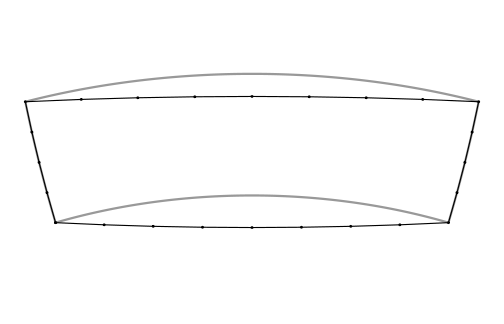
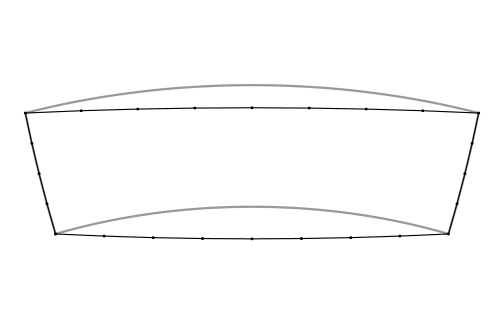
Curves page: project with wk::wk_transform() and PROJ::proj_trans_create()
Re-rendered from the updated bigcurve vignette; adds the drawn cut figure.

Claude-Session: https://claude.ai/code/session_01R9F8K5ghzDkVHd94kgQPB4

Changed region(s): [[0.0298, 0.216, 0.9524, 0.7407]]

diff --git a/docs/curves/index.html b/docs/curves/index.html
@@ -183,16 +183,21 @@ is the geodesic reading with bigcurve's added vertices (the points).</p>
 <span id="cb6-6"><a href="#cb6-6" aria-hidden="true" tabindex="-1"></a>lon <span class="ot">&lt;-</span> <span class="fu">seq</span>(<span class="dv">100</span>, <span class="dv">160</span>, <span class="at">by =</span> <span class="fl">0.5</span>)</span>
 <span id="cb6-7"><a href="#cb6-7" aria-hidden="true" tabindex="-1"></a>planar <span class="ot">&lt;-</span> <span class="fu">rbind</span>(<span class="fu">cbind</span>(lon, <span class="sc">-</span><span class="dv">35</span>), <span class="fu">cbind</span>(<span class="dv">160</span>, <span class="fu">seq</span>(<span class="sc">-</span><span class="dv">35</span>, <span class="sc">-</span><span class="dv">20</span>, <span class="at">by =</span> <span class="fl">0.5</span>)),</span>
 <span id="cb6-8"><a href="#cb6-8" aria-hidden="true" tabindex="-1"></a>                <span class="fu">cbind</span>(<span class="fu">rev</span>(lon), <span class="sc">-</span><span class="dv">20</span>), <span class="fu">cbind</span>(<span class="dv">100</span>, <span class="fu">seq</span>(<span class="sc">-</span><span class="dv">20</span>, <span class="sc">-</span><span class="dv">35</span>, <span class="at">by =</span> <span class="sc">-</span><span class="fl">0.5</span>)))</span>
-<span id="cb6-9"><a href="#cb6-9" aria-hidden="true" tabindex="-1"></a>v <span class="ot">&lt;-</span> wkpool<span class="sc">::</span><span class="fu">pool_vertices</span>(dense)</span>
-<span id="cb6-10"><a href="#cb6-10" aria-hidden="true" tabindex="-1"></a>seg <span class="ot">&lt;-</span> wkpool<span class="sc">::</span><span class="fu">pool_segments</span>(dense)</span>
-<span id="cb6-11"><a href="#cb6-11" aria-hidden="true" tabindex="-1"></a>p0 <span class="ot">&lt;-</span> <span class="fu">rproj_xy</span>(<span class="fu">cbind</span>(v<span class="sc">$</span>x, v<span class="sc">$</span>y)[<span class="fu">match</span>(seg<span class="sc">$</span>.vx0, v<span class="sc">$</span>.vx), ], prj)</span>
-<span id="cb6-12"><a href="#cb6-12" aria-hidden="true" tabindex="-1"></a>p1 <span class="ot">&lt;-</span> <span class="fu">rproj_xy</span>(<span class="fu">cbind</span>(v<span class="sc">$</span>x, v<span class="sc">$</span>y)[<span class="fu">match</span>(seg<span class="sc">$</span>.vx1, v<span class="sc">$</span>.vx), ], prj)</span>
-<span id="cb6-13"><a href="#cb6-13" aria-hidden="true" tabindex="-1"></a></span>
-<span id="cb6-14"><a href="#cb6-14" aria-hidden="true" tabindex="-1"></a>op <span class="ot">&lt;-</span> <span class="fu">par</span>(<span class="at">mar =</span> <span class="fu">rep</span>(<span class="fl">0.5</span>, <span class="dv">4</span>))</span>
-<span id="cb6-15"><a href="#cb6-15" aria-hidden="true" tabindex="-1"></a><span class="fu">plot</span>(<span class="fu">rbind</span>(p0, p1), <span class="at">type =</span> <span class="st">&quot;n&quot;</span>, <span class="at">asp =</span> <span class="dv">1</span>, <span class="at">axes =</span> <span class="cn">FALSE</span>, <span class="at">xlab =</span> <span class="st">&quot;&quot;</span>, <span class="at">ylab =</span> <span class="st">&quot;&quot;</span>)</span>
-<span id="cb6-16"><a href="#cb6-16" aria-hidden="true" tabindex="-1"></a><span class="fu">lines</span>(<span class="fu">rproj_xy</span>(planar, prj), <span class="at">col =</span> <span class="st">&quot;grey60&quot;</span>, <span class="at">lwd =</span> <span class="dv">3</span>)</span>
-<span id="cb6-17"><a href="#cb6-17" aria-hidden="true" tabindex="-1"></a><span class="fu">segments</span>(p0[, <span class="dv">1</span>], p0[, <span class="dv">2</span>], p1[, <span class="dv">1</span>], p1[, <span class="dv">2</span>], <span class="at">lwd =</span> <span class="fl">1.5</span>)</span>
-<span id="cb6-18"><a href="#cb6-18" aria-hidden="true" tabindex="-1"></a><span class="fu">points</span>(<span class="fu">rproj_xy</span>(<span class="fu">cbind</span>(v<span class="sc">$</span>x, v<span class="sc">$</span>y), prj), <span class="at">pch =</span> <span class="dv">19</span>, <span class="at">cex =</span> <span class="fl">0.4</span>)</span></code></pre></div>
+<span id="cb6-9"><a href="#cb6-9" aria-hidden="true" tabindex="-1"></a><span class="do">## back to geometry, then project with wk and PROJ</span></span>
+<span id="cb6-10"><a href="#cb6-10" aria-hidden="true" tabindex="-1"></a><span class="do">## (merge_coincident() closes the ring where its last vertex repeats the first)</span></span>
+<span id="cb6-11"><a href="#cb6-11" aria-hidden="true" tabindex="-1"></a>geom <span class="ot">&lt;-</span> wkpool<span class="sc">::</span><span class="fu">cycles_to_wkb</span>(wkpool<span class="sc">::</span><span class="fu">merge_coincident</span>(dense))</span>
+<span id="cb6-12"><a href="#cb6-12" aria-hidden="true" tabindex="-1"></a>to_map <span class="ot">&lt;-</span> PROJ<span class="sc">::</span><span class="fu">proj_trans_create</span>(wk<span class="sc">::</span><span class="fu">wk_crs</span>(geom), prj)</span>
+<span id="cb6-13"><a href="#cb6-13" aria-hidden="true" tabindex="-1"></a>drawn <span class="ot">&lt;-</span> wk<span class="sc">::</span><span class="fu">wk_transform</span>(geom, to_map)</span>
+<span id="cb6-14"><a href="#cb6-14" aria-hidden="true" tabindex="-1"></a>flat <span class="ot">&lt;-</span> wk<span class="sc">::</span><span class="fu">wk_transform</span>(wk<span class="sc">::</span><span class="fu">xy</span>(planar[, <span class="dv">1</span>], planar[, <span class="dv">2</span>], <span class="at">crs =</span> <span class="st">&quot;OGC:CRS84&quot;</span>), to_map)</span>
+<span id="cb6-15"><a href="#cb6-15" aria-hidden="true" tabindex="-1"></a></span>
+<span id="cb6-16"><a href="#cb6-16" aria-hidden="true" tabindex="-1"></a>fc <span class="ot">&lt;-</span> wk<span class="sc">::</span><span class="fu">wk_coords</span>(flat)</span>
+<span id="cb6-17"><a href="#cb6-17" aria-hidden="true" tabindex="-1"></a>dc <span class="ot">&lt;-</span> wk<span class="sc">::</span><span class="fu">wk_coords</span>(drawn)</span>
+<span id="cb6-18"><a href="#cb6-18" aria-hidden="true" tabindex="-1"></a>op <span class="ot">&lt;-</span> <span class="fu">par</span>(<span class="at">mar =</span> <span class="fu">rep</span>(<span class="fl">0.5</span>, <span class="dv">4</span>))</span>
+<span id="cb6-19"><a href="#cb6-19" aria-hidden="true" tabindex="-1"></a><span class="fu">plot</span>(<span class="fu">range</span>(fc<span class="sc">$</span>x, dc<span class="sc">$</span>x), <span class="fu">range</span>(fc<span class="sc">$</span>y, dc<span class="sc">$</span>y), <span class="at">type =</span> <span class="st">&quot;n&quot;</span>, <span class="at">asp =</span> <span class="dv">1</span>,</span>
+<span id="cb6-20"><a href="#cb6-20" aria-hidden="true" tabindex="-1"></a>     <span class="at">axes =</span> <span class="cn">FALSE</span>, <span class="at">xlab =</span> <span class="st">&quot;&quot;</span>, <span class="at">ylab =</span> <span class="st">&quot;&quot;</span>)</span>
+<span id="cb6-21"><a href="#cb6-21" aria-hidden="true" tabindex="-1"></a><span class="fu">lines</span>(fc<span class="sc">$</span>x, fc<span class="sc">$</span>y, <span class="at">col =</span> <span class="st">&quot;grey60&quot;</span>, <span class="at">lwd =</span> <span class="dv">3</span>)</span>
+<span id="cb6-22"><a href="#cb6-22" aria-hidden="true" tabindex="-1"></a><span class="fu">plot</span>(drawn, <span class="at">lwd =</span> <span class="fl">1.5</span>, <span class="at">add =</span> <span class="cn">TRUE</span>)</span>
+<span id="cb6-23"><a href="#cb6-23" aria-hidden="true" tabindex="-1"></a><span class="fu">points</span>(dc<span class="sc">$</span>x, dc<span class="sc">$</span>y, <span class="at">pch =</span> <span class="dv">19</span>, <span class="at">cex =</span> <span class="fl">0.4</span>)</span></code></pre></div>
 <p><img src="box.png"
 alt="A box from longitude 100 to 160 and latitude -35 to -20, drawn in a Lambert azimuthal projection: grey with sides along parallels, black with great circle sides and the vertices bigcurve added" /></p>
 <div class="sourceCode" id="cb7"><pre class="sourceCode r"><code class="sourceCode r"><span id="cb7-1"><a href="#cb7-1" aria-hidden="true" tabindex="-1"></a><span class="fu">par</span>(op)</span></code></pre></div>
@@ -290,10 +295,22 @@ sides that the box contributed. The coastline is already finely detailed
 and is left alone. That economy is the purpose of adaptive
 densification: points are spent where the map bends the line, and
 nowhere else.</p>
-<p>To draw the result, project the densified pool with PROJ
-(<code>rproj_xy()</code>, sf, terra or anything else) or turn it back
-into geometry with <code>wkpool::segments_to_wkb()</code> or
-<code>wkpool::cycles_to_wkb()</code>.</p>
+<p>To draw the result, turn the pool back into geometry and project it.
+The fast general path is wk and PROJ: build the transform once with
+<code>PROJ::proj_trans_create()</code> and stream the geometry through
+<code>wk::wk_transform()</code>. Any other tool that projects (sf,
+terra) works too, since the densified vertices are ordinary longitude,
+latitude points.</p>
+<div class="sourceCode" id="cb10"><pre class="sourceCode r"><code class="sourceCode r"><span id="cb10-1"><a href="#cb10-1" aria-hidden="true" tabindex="-1"></a>geom <span class="ot">&lt;-</span> wkpool<span class="sc">::</span><span class="fu">cycles_to_wkb</span>(wkpool<span class="sc">::</span><span class="fu">merge_coincident</span>(out))</span>
+<span id="cb10-2"><a href="#cb10-2" aria-hidden="true" tabindex="-1"></a>drawn <span class="ot">&lt;-</span> wk<span class="sc">::</span><span class="fu">wk_transform</span>(geom, PROJ<span class="sc">::</span><span class="fu">proj_trans_create</span>(wk<span class="sc">::</span><span class="fu">wk_crs</span>(geom), prj))</span>
+<span id="cb10-3"><a href="#cb10-3" aria-hidden="true" tabindex="-1"></a>dc <span class="ot">&lt;-</span> wk<span class="sc">::</span><span class="fu">wk_coords</span>(drawn)</span>
+<span id="cb10-4"><a href="#cb10-4" aria-hidden="true" tabindex="-1"></a>op <span class="ot">&lt;-</span> <span class="fu">par</span>(<span class="at">mar =</span> <span class="fu">rep</span>(<span class="fl">0.5</span>, <span class="dv">4</span>))</span>
+<span id="cb10-5"><a href="#cb10-5" aria-hidden="true" tabindex="-1"></a><span class="fu">plot</span>(<span class="fu">range</span>(dc<span class="sc">$</span>x), <span class="fu">range</span>(dc<span class="sc">$</span>y), <span class="at">type =</span> <span class="st">&quot;n&quot;</span>, <span class="at">asp =</span> <span class="dv">1</span>,</span>
+<span id="cb10-6"><a href="#cb10-6" aria-hidden="true" tabindex="-1"></a>     <span class="at">axes =</span> <span class="cn">FALSE</span>, <span class="at">xlab =</span> <span class="st">&quot;&quot;</span>, <span class="at">ylab =</span> <span class="st">&quot;&quot;</span>)</span>
+<span id="cb10-7"><a href="#cb10-7" aria-hidden="true" tabindex="-1"></a><span class="fu">plot</span>(drawn, <span class="at">col =</span> <span class="st">&quot;grey90&quot;</span>, <span class="at">add =</span> <span class="cn">TRUE</span>)</span></code></pre></div>
+<p><img src="cut.png"
+alt="The part of Australia inside the box, densified and drawn in the same projection" /></p>
+<div class="sourceCode" id="cb11"><pre class="sourceCode r"><code class="sourceCode r"><span id="cb11-1"><a href="#cb11-1" aria-hidden="true" tabindex="-1"></a><span class="fu">par</span>(op)</span></code></pre></div>
 <h2 id="things-that-are-the-same-and-things-that-are-not">Things that
 are the same, and things that are not</h2>
 <ul>

diff --git a/survey/curves.md b/survey/curves.md
@@ -146,16 +146,21 @@ dense <- densify(pool, prj)
 lon <- seq(100, 160, by = 0.5)
 planar <- rbind(cbind(lon, -35), cbind(160, seq(-35, -20, by = 0.5)),
                 cbind(rev(lon), -20), cbind(100, seq(-20, -35, by = -0.5)))
-v <- wkpool::pool_vertices(dense)
-seg <- wkpool::pool_segments(dense)
-p0 <- rproj_xy(cbind(v$x, v$y)[match(seg$.vx0, v$.vx), ], prj)
-p1 <- rproj_xy(cbind(v$x, v$y)[match(seg$.vx1, v$.vx), ], prj)
+## back to geometry, then project with wk and PROJ
+## (merge_coincident() closes the ring where its last vertex repeats the first)
+geom <- wkpool::cycles_to_wkb(wkpool::merge_coincident(dense))
+to_map <- PROJ::proj_trans_create(wk::wk_crs(geom), prj)
+drawn <- wk::wk_transform(geom, to_map)
+flat <- wk::wk_transform(wk::xy(planar[, 1], planar[, 2], crs = "OGC:CRS84"), to_map)
 
+fc <- wk::wk_coords(flat)
+dc <- wk::wk_coords(drawn)
 op <- par(mar = rep(0.5, 4))
-plot(rbind(p0, p1), type = "n", asp = 1, axes = FALSE, xlab = "", ylab = "")
-lines(rproj_xy(planar, prj), col = "grey60", lwd = 3)
-segments(p0[, 1], p0[, 2], p1[, 1], p1[, 2], lwd = 1.5)
-points(rproj_xy(cbind(v$x, v$y), prj), pch = 19, cex = 0.4)
+plot(range(fc$x, dc$x), range(fc$y, dc$y), type = "n", asp = 1,
+     axes = FALSE, xlab = "", ylab = "")
+lines(fc$x, fc$y, col = "grey60", lwd = 3)
+plot(drawn, lwd = 1.5, add = TRUE)
+points(dc$x, dc$y, pch = 19, cex = 0.4)
 ```
 
 ![A box from longitude 100 to 160 and latitude -35 to -20, drawn in a Lambert azimuthal projection: grey with sides along parallels, black with great circle sides and the vertices bigcurve added](box.png)
@@ -239,9 +244,28 @@ that the box contributed. The coastline is already finely detailed and is
 left alone. That economy is the purpose of adaptive densification: points
 are spent where the map bends the line, and nowhere else.
 
-To draw the result, project the densified pool with PROJ (`rproj_xy()`,
-sf, terra or anything else) or turn it back into geometry with
-`wkpool::segments_to_wkb()` or `wkpool::cycles_to_wkb()`.
+To draw the result, turn the pool back into geometry and project it.
+The fast general path is wk and PROJ: build the transform once with
+`PROJ::proj_trans_create()` and stream the geometry through
+`wk::wk_transform()`. Any other tool that projects (sf, terra) works too,
+since the densified vertices are ordinary longitude, latitude points.
+
+
+```r
+geom <- wkpool::cycles_to_wkb(wkpool::merge_coincident(out))
+drawn <- wk::wk_transform(geom, PROJ::proj_trans_create(wk::wk_crs(geom), prj))
+dc <- wk::wk_coords(drawn)
+op <- par(mar = rep(0.5, 4))
+plot(range(dc$x), range(dc$y), type = "n", asp = 1,
+     axes = FALSE, xlab = "", ylab = "")
+plot(drawn, col = "grey90", add = TRUE)
+```
+
+![The part of Australia inside the box, densified and drawn in the same projection](cut.png)
+
+```r
+par(op)
+```
 
 ## Things that are the same, and things that are not
 
